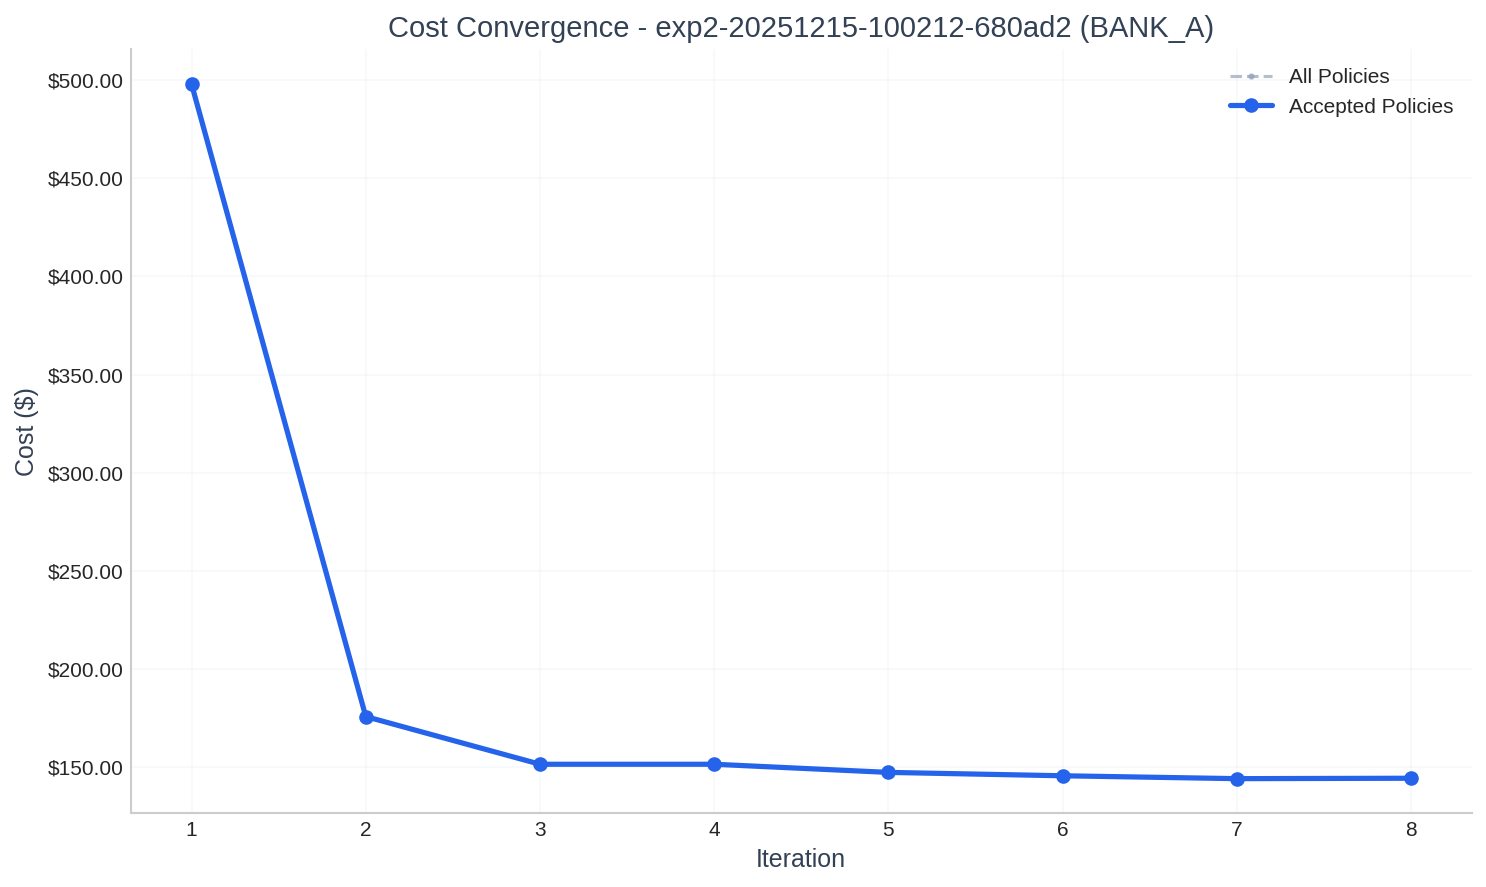
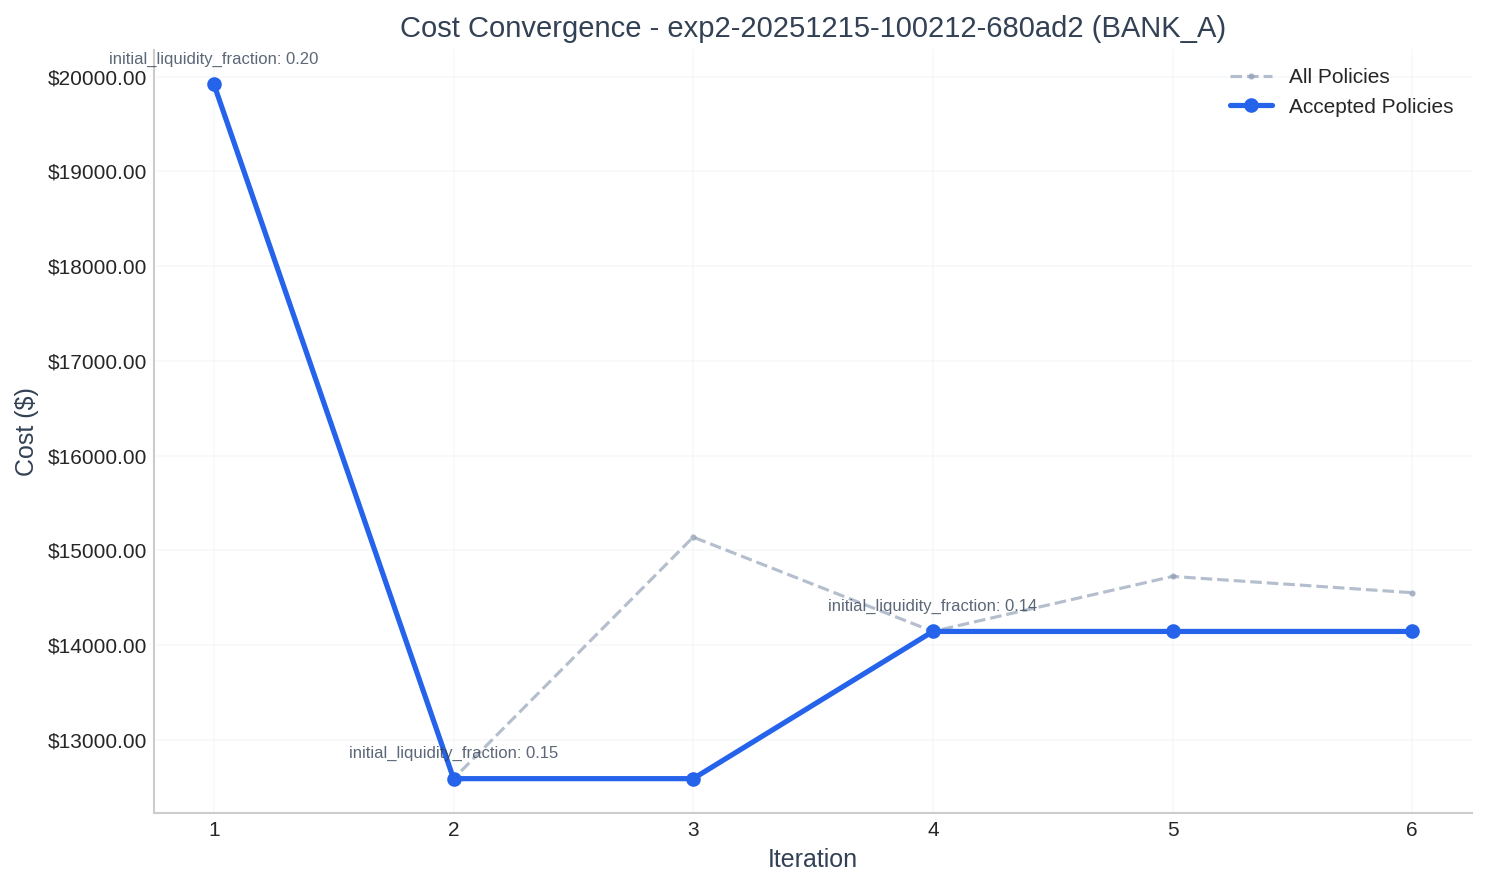
Fix experiment chart to show rejected policies and parameter annotations
- Extract iteration history from LLM user_prompt for bootstrap experiments
  - Parse costs and acceptance status for both accepted and rejected policies
  - Extract parameter values from JSON sections in prompt
- Update _add_parameter_annotations to include parameter name
  - Format: "initial_liquidity_fraction: 0.15" instead of just "0.15"
- Regenerate exp2 charts showing divergent lines for rejected policies

Charts now correctly show:
- "All Policies" line diverging upward when policies are rejected
- "Accepted Policies" line staying flat at the accepted cost
- Full parameter name:value annotations on each accepted point

Only affects bootstrap mode experiments (exp2); deterministic mode
experiments (exp1, exp3) continue to use iterations table data.

diff --git a/api/payment_simulator/experiments/analysis/charting.py b/api/payment_simulator/experiments/analysis/charting.py
@@ -20,6 +20,7 @@ Example:
 
 from __future__ import annotations
 
+import re
 from dataclasses import dataclass
 from pathlib import Path
 from typing import Any
@@ -28,6 +29,97 @@ import matplotlib.pyplot as plt
 import matplotlib.ticker as ticker
 
 from payment_simulator.experiments.persistence import ExperimentRepository
+
+
+@dataclass(frozen=True)
+class ParsedIterationData:
+    """Iteration data parsed from LLM user_prompt.
+
+    Attributes:
+        iteration: Iteration number (1-indexed).
+        cost_cents: Cost in integer cents.
+        is_best: True if this is the best policy so far.
+        is_accepted: True if policy was accepted (BEST or KEPT).
+        parameter_value: Parameter value if extractable.
+    """
+
+    iteration: int
+    cost_cents: int
+    is_best: bool
+    is_accepted: bool
+    parameter_value: float | None = None
+
+
+def _parse_iteration_history_from_llm_prompt(
+    user_prompt: str,
+    parameter_name: str | None = None,
+) -> list[ParsedIterationData]:
+    """Parse iteration history from LLM user_prompt.
+
+    Extracts cost and acceptance status from the Metrics Summary Table
+    in the LLM user_prompt. Also extracts parameter values from the
+    Detailed Changes Per Iteration section if parameter_name is provided.
+
+    Args:
+        user_prompt: The user_prompt from LLM interaction event.
+        parameter_name: Optional parameter name to extract values for.
+
+    Returns:
+        List of ParsedIterationData, one per iteration.
+    """
+    results: list[ParsedIterationData] = []
+
+    # Pattern to match metrics table rows:
+    # | 1 | ⭐ BEST | $39,840 | ... or
+    # | 1 | ✅ KEPT | $15,127 | ... or
+    # | 1 | ❌ REJECTED | $15,643 | ...
+    metrics_pattern = r"\|\s*(\d+)\s*\|\s*(⭐ BEST|✅ KEPT|❌ REJECTED)\s*\|\s*\$([0-9,]+)\s*\|"
+    metrics_matches = re.findall(metrics_pattern, user_prompt)
+
+    # Build parameter value lookup from Detailed Changes section
+    param_values: dict[int, float] = {}
+    if parameter_name:
+        # Pattern to find parameter values in the iterations
+        # Looking for: "initial_liquidity_fraction": 0.15
+        # in the Iteration X section
+        iter_sections = re.findall(
+            r"####\s*[⭐✅❌]\s*Iteration\s+(\d+).*?```json\s*\{([^}]+)\}",
+            user_prompt,
+            re.DOTALL,
+        )
+        for iter_str, json_content in iter_sections:
+            iter_num = int(iter_str)
+            # Look for the parameter value
+            param_pattern = rf'"{re.escape(parameter_name)}"\s*:\s*([0-9.]+)'
+            param_match = re.search(param_pattern, json_content)
+            if param_match:
+                try:
+                    param_values[iter_num] = float(param_match.group(1))
+                except ValueError:
+                    pass
+
+    # Build ParsedIterationData for each match
+    for match in metrics_matches:
+        iter_num = int(match[0])
+        status = match[1]
+        cost_str = match[2].replace(",", "")
+        cost_cents = int(cost_str) * 100  # Convert dollars to cents
+
+        is_best = status == "⭐ BEST"
+        is_accepted = status != "❌ REJECTED"
+
+        results.append(
+            ParsedIterationData(
+                iteration=iter_num,
+                cost_cents=cost_cents,
+                is_best=is_best,
+                is_accepted=is_accepted,
+                parameter_value=param_values.get(iter_num),
+            )
+        )
+
+    return results
+
 
 # Color palette for pleasant appearance
 COLORS = {
@@ -108,6 +200,11 @@ class ExperimentChartService:
     ) -> ChartData:
         """Extract chart data from experiment run.
 
+        For bootstrap mode experiments with an agent filter, extracts data
+        from LLM events (which contain proposed policy costs and acceptance
+        status). Falls back to experiment_iterations table for deterministic
+        mode or system total views.
+
         Args:
             run_id: Experiment run ID.
             agent_filter: Optional agent ID to filter costs.
@@ -129,7 +226,120 @@ class ExperimentChartService:
             "mode", "deterministic"
         )
 
-        # Get all iterations
+        # Try to extract from LLM events for bootstrap mode with agent filter
+        # LLM events contain the full iteration history with proposed costs
+        if evaluation_mode == "bootstrap" and agent_filter is not None:
+            data_points = self._extract_from_llm_events(
+                run_id, agent_filter, parameter_name
+            )
+            if data_points:
+                return ChartData(
+                    run_id=run_id,
+                    experiment_name=experiment.experiment_name,
+                    evaluation_mode=evaluation_mode,
+                    agent_id=agent_filter,
+                    parameter_name=parameter_name,
+                    data_points=data_points,
+                )
+
+        # Fall back to experiment_iterations table
+        return self._extract_from_iterations_table(
+            run_id=run_id,
+            experiment=experiment,
+            evaluation_mode=evaluation_mode,
+            agent_filter=agent_filter,
+            parameter_name=parameter_name,
+        )
+
+    def _extract_from_llm_events(
+        self,
+        run_id: str,
+        agent_filter: str,
+        parameter_name: str | None,
+    ) -> list[ChartDataPoint]:
+        """Extract chart data from LLM interaction events.
+
+        Parses the iteration history from the latest LLM user_prompt
+        for the specified agent. This provides accurate costs for
+        both accepted and rejected policies.
+
+        Args:
+            run_id: Experiment run ID.
+            agent_filter: Agent ID to extract data for.
+            parameter_name: Optional parameter name to extract.
+
+        Returns:
+            List of ChartDataPoints, empty if no LLM events found.
+        """
+        # Get all events for this run
+        all_events = self._repo.get_all_events(run_id)
+
+        # Find the latest LLM interaction for this agent
+        latest_llm_event = None
+        latest_iteration = -1
+
+        for event in all_events:
+            if event.event_type != "llm_interaction":
+                continue
+            agent_id = event.event_data.get("agent_id", "")
+            if agent_id != agent_filter:
+                continue
+            if event.iteration > latest_iteration:
+                latest_iteration = event.iteration
+                latest_llm_event = event
+
+        if latest_llm_event is None:
+            return []
+
+        # Get user_prompt from event
+        user_prompt = latest_llm_event.event_data.get("user_prompt", "")
+        if not user_prompt:
+            return []
+
+        # Parse iteration history from the prompt
+        parsed_data = _parse_iteration_history_from_llm_prompt(
+            user_prompt, parameter_name
+        )
+
+        if not parsed_data:
+            return []
+
+        # Convert to ChartDataPoints
+        data_points: list[ChartDataPoint] = []
+        for parsed in parsed_data:
+            data_points.append(
+                ChartDataPoint(
+                    iteration=parsed.iteration,
+                    cost_dollars=parsed.cost_cents / 100.0,
+                    accepted=parsed.is_accepted,
+                    parameter_value=parsed.parameter_value,
+                )
+            )
+
+        return data_points
+
+    def _extract_from_iterations_table(
+        self,
+        run_id: str,
+        experiment: Any,
+        evaluation_mode: str,
+        agent_filter: str | None,
+        parameter_name: str | None,
+    ) -> ChartData:
+        """Extract chart data from experiment_iterations table.
+
+        Falls back method when LLM events are not available.
+
+        Args:
+            run_id: Experiment run ID.
+            experiment: Experiment record.
+            evaluation_mode: "deterministic" or "bootstrap".
+            agent_filter: Optional agent ID to filter costs.
+            parameter_name: Optional parameter to extract.
+
+        Returns:
+            ChartData with data from iterations table.
+        """
         iterations = self._repo.get_iterations(run_id)
 
         if not iterations:
@@ -142,7 +352,6 @@ class ExperimentChartService:
                 data_points=[],
             )
 
-        # Build data points
         data_points: list[ChartDataPoint] = []
 
         for iteration in iterations:
@@ -150,23 +359,16 @@ class ExperimentChartService:
 
             # Calculate cost
             if agent_filter is not None:
-                # Single agent cost
                 cost_cents = iteration.costs_per_agent.get(agent_filter, 0)
             else:
-                # Sum all agent costs for system total
                 cost_cents = sum(iteration.costs_per_agent.values())
 
-            # Convert cents to dollars (INV-1 compliance)
             cost_dollars = cost_cents / 100.0
 
-            # Determine if this iteration was accepted
-            # For single agent filter, check that agent's acceptance
-            # For system total, check if all agents accepted
+            # Determine acceptance status
             if agent_filter is not None:
                 accepted = iteration.accepted_changes.get(agent_filter, False)
             else:
-                # System-wide: accepted if any agent accepted
-                # (This represents that optimization made progress)
                 accepted = any(iteration.accepted_changes.values())
 
             # Extract parameter value if requested
@@ -358,7 +560,7 @@ def _add_parameter_annotations(
     """Add parameter value annotations to chart.
 
     Places text annotations above accepted data points showing
-    the parameter value at that iteration.
+    the parameter name and value at that iteration.
 
     Args:
         ax: Matplotlib axes object.
@@ -367,13 +569,18 @@ def _add_parameter_annotations(
     """
     for i, point in enumerate(data.data_points):
         if point.accepted and point.parameter_value is not None:
+            # Include parameter name in annotation for clarity
+            if data.parameter_name:
+                label = f"{data.parameter_name}: {point.parameter_value:.2f}"
+            else:
+                label = f"{point.parameter_value:.2f}"
             ax.annotate(
-                f"{point.parameter_value:.2f}",
+                label,
                 xy=(point.iteration, accepted_costs[i]),
                 xytext=(0, 10),
                 textcoords="offset points",
                 ha="center",
-                fontsize=9,
+                fontsize=8,  # Slightly smaller to fit longer text
                 color=COLORS["text"],
                 alpha=0.8,
             )
